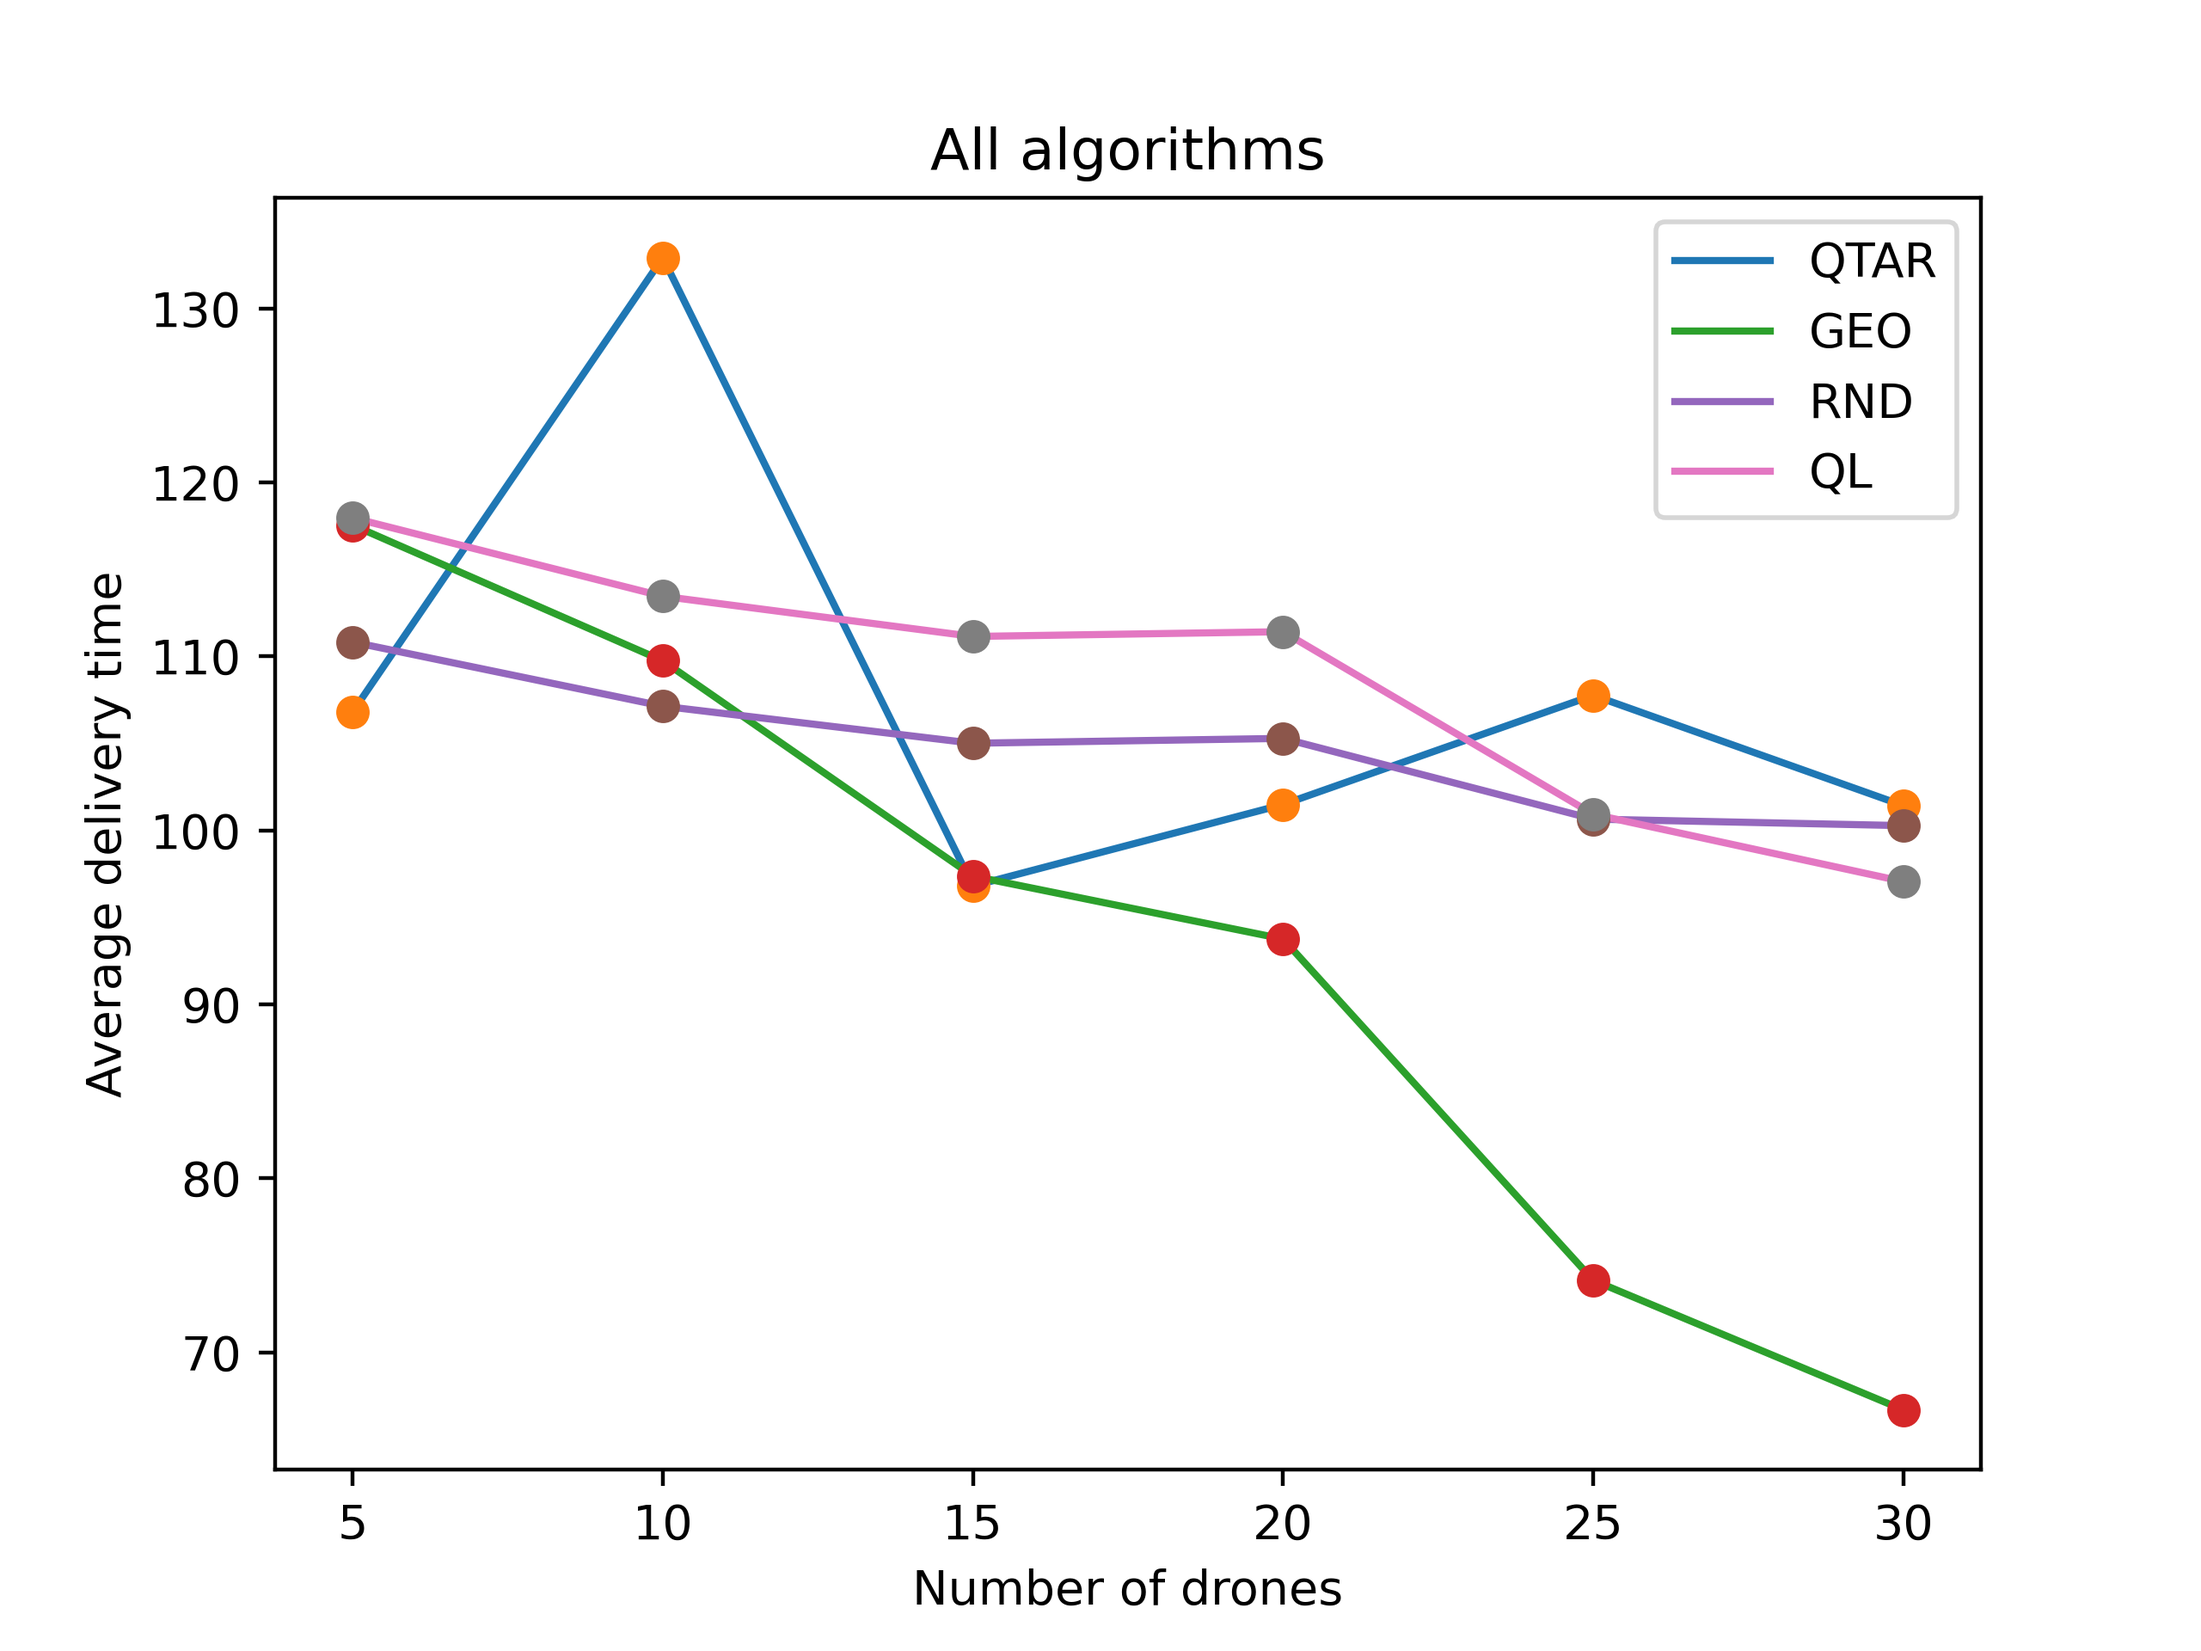
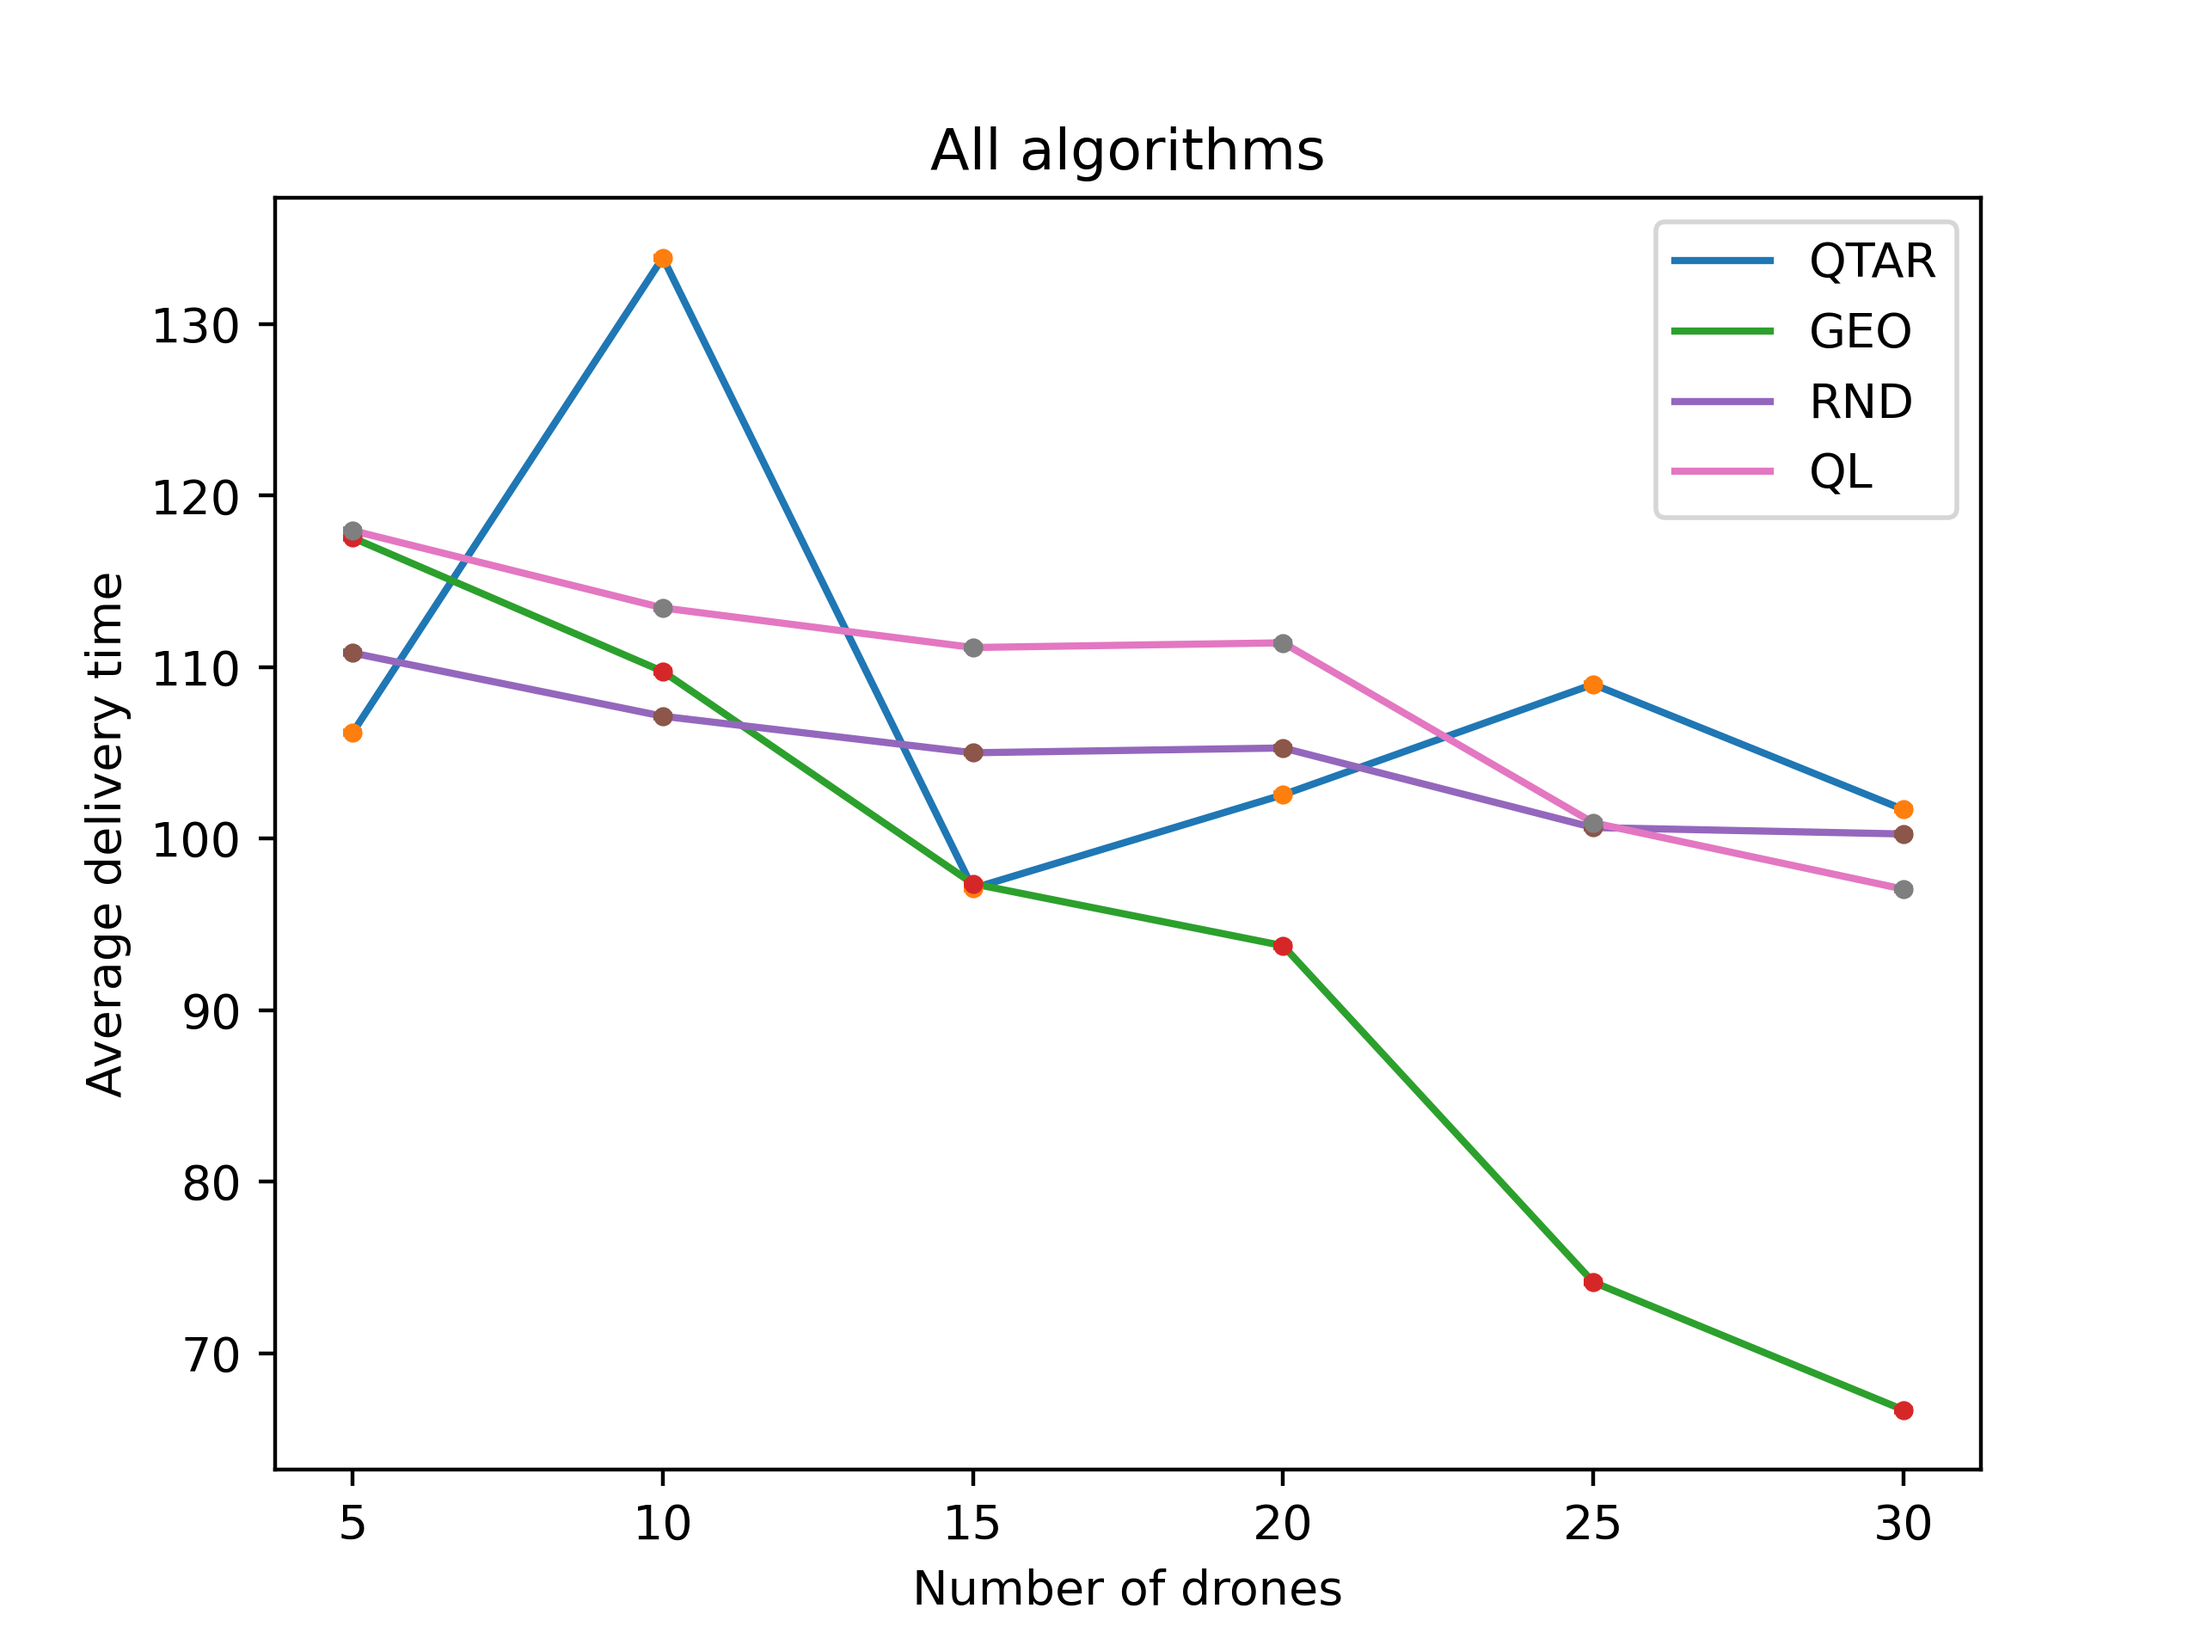
New plots with new sim with new parameters

diff --git a/plots.py b/plots.py
@@ -20,7 +20,8 @@ def plot_avg_results(data: list[str], data_type: str, algorithms: list[str]):
                 # Plot values
                 plt.plot(list(avg.keys()), list(avg.values()))
                 # Plot error bars
-                plt.errorbar(list(avg.keys()), list(avg.values()), yerr=0.1, fmt='o')
+                # fmt small dots
+                plt.errorbar(list(avg.keys()), list(avg.values()), yerr=0.1, capsize=2, fmt='.')
     # Set legend
     plt.legend(found_algorithms)
 

diff --git a/src/routing_algorithms/qtar_routing.py b/src/routing_algorithms/qtar_routing.py
@@ -11,8 +11,8 @@ class QTARRouting(ADVANCED_Routing):
         self.taken_actions = {}  # id event : (old_state, old_action)
         self.q_table = np.zeros(self.simulator.n_drones)
         self.A = 0.1  # delay importance
-        self.B = 0.5  # speed importance
-        self.C = 0.4  # energy importance
+        self.B = 0.6  # speed importance
+        self.C = 0.3  # energy importance
         self.rmin = -np.inf  # minimum reward
         self.rmax = -np.inf  # maximum reward
 
